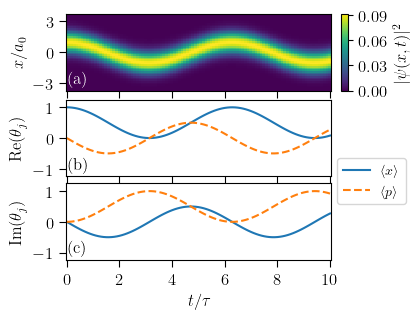
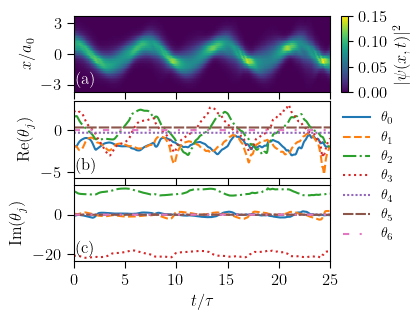
Improved plots

diff --git a/plots.py b/plots.py
@@ -35,7 +35,7 @@ def evo_fig_params(time, mesh, den, params, fig_name='output.pdf'):
         tx = 0.01
         ty = 0.05
 
-        labels = [r'$\theta_{j}$' for j in range(num_params)]  # Labels for legend
+        labels = [r'$\theta_{%i}$' % j for j in range(num_params)]  # Labels for legend
 
     # Line styles and labels for each parameter line
     colors = ['tab:blue', 'tab:orange', 'tab:green', 'tab:red', 'tab:purple', 'tab:brown', 'tab:pink', 'tab:gray', 'tab:olive', 'tab:cyan']  # Colors for each parameter
@@ -61,7 +61,7 @@ def evo_fig_params(time, mesh, den, params, fig_name='output.pdf'):
     # Add colorbar to the side without affecting panel width
     cbar = fig.colorbar(pcm, ax=axs[0], pad=0.01, aspect=10, orientation='vertical')
     cbar.set_label(r'$|\psi(x,t)|^2$')
-    cbar.set_ticks(np.linspace(0,round(max(map(max, den)),2),4))
+    cbar.set_ticks(np.round(np.linspace(0,max(map(max, den)),4),2))
 
     # Middle Panel
     for i in range(real_params.shape[1]):
@@ -69,7 +69,7 @@ def evo_fig_params(time, mesh, den, params, fig_name='output.pdf'):
     axs[1].set_ylabel(r'${\rm Re}(\theta_j)$')
     axs[1].tick_params(labelbottom=False, length=5)
     axs[1].set_xticks(np.linspace(0, t_max, 6))
-    axs[1].set_ylim([lim * 1 for lim in [-1.25, 1.25]])
+    # axs[1].set_ylim([lim * 1 for lim in [-1.25, 1.25]])
     axs[1].text(tx,ty, r"${\rm (b)}$",
                 horizontalalignment=ha,
                 verticalalignment=va,
@@ -83,7 +83,7 @@ def evo_fig_params(time, mesh, den, params, fig_name='output.pdf'):
     axs[2].set_ylabel(r'${\rm Im}(\theta_j)$')
     axs[2].tick_params(labelbottom=True, length=5)
     axs[2].set_xticks(np.linspace(0, t_max, 6)) 
-    axs[2].set_ylim([lim * 1 for lim in [-1.25, 1.25]])
+    # axs[2].set_ylim([lim * 1 for lim in [-1.25, 1.25]])
     axs[2].text(tx, ty, r"${\rm (c)}$",
                 horizontalalignment=ha,
                 verticalalignment=va,
@@ -96,9 +96,10 @@ def evo_fig_params(time, mesh, den, params, fig_name='output.pdf'):
     # Add a figure-level legend below the colorbar
     fig.legend(handles, labels,
                loc='upper left',
-               bbox_to_anchor=(0.8, 0.525),
+               bbox_to_anchor=(0.8, 0.7),
                ncol=1,
                fontsize=10, 
+               frameon=False
                )
     
     # Adjust vertical spacing

diff --git a/utilities.py b/utilities.py
@@ -88,18 +88,18 @@ def nth_derivative(f, z, n):
     return dnf_dnz
 
 
-def regularize_qgt(S, method="diagonal_shift", lambda_reg=0.01, clip_value=1.0):
+def regularize_matrix(S, method="diagonal_shift", lambda_reg=0.01, clip_value=1.0):
     """
-    Apply regularization to a Quantum Geometric Tensor (QGT).
+    Apply regularization to a matrix.
     
     Parameters:
-    - S (torch.Tensor): Complex-valued QGT matrix.
+    - S (torch.Tensor): Complex-valued matrix.
     - method (str): The regularization method to apply.
     - lambda_reg (float): Regularization strength.
     - clip_value (float): Value for clipping in weight clipping.
     
     Returns:
-    - torch.Tensor: Regularized QGT matrix.
+    - torch.Tensor: Regularized matrix.
     """
     # Ensure S is complex and square
     assert S.dtype == torch.cfloat or S.dtype == torch.cdouble, "S must be a complex tensor"

diff --git a/main.py b/main.py
@@ -30,7 +30,7 @@ seed = 1
 torch.manual_seed(seed)
 
 # Choose model
-architecture = 'GASP'
+architecture = 'NQS'
 match architecture:
     case 'GASP':
         # Create the NN model
@@ -97,8 +97,8 @@ pm.x0 = 0
 pm.w = 1
 
 # Time parameters
-pm.dt = 0.1
-pm.t_max = 10
+pm.dt = 0.01
+pm.t_max = 25
 
 # Integrator parameters
 pm.evolution = 'real'

diff --git a/integrators.py b/integrators.py
@@ -53,7 +53,7 @@ def EOM(parameters, model, grid):
     S = SR.compute_qgt(psi, jacobian)
 
     # QGT regularization
-    # Sr = utils.regularize_qgt(S, pm.reg, pm.lambda_reg)
+    # S = utils.regularize_matrix(S, pm.reg, pm.lambda_reg)
     S +=  utils.eye_like(S) * pm.lambda_reg
 
     # Moore-Penrose psudo-inverse    

diff --git a/parameters.py b/parameters.py
@@ -20,7 +20,7 @@ steps = 10
 file_path = "model_states.h5"
 
 # Regularization parameters
-lambda_reg = 1e-8 * (1 + 1j)
+lambda_reg = 1e-5 * (1 + 1j)
 reg = 'diagonal_shift'
 
 # Gaussian barrier
